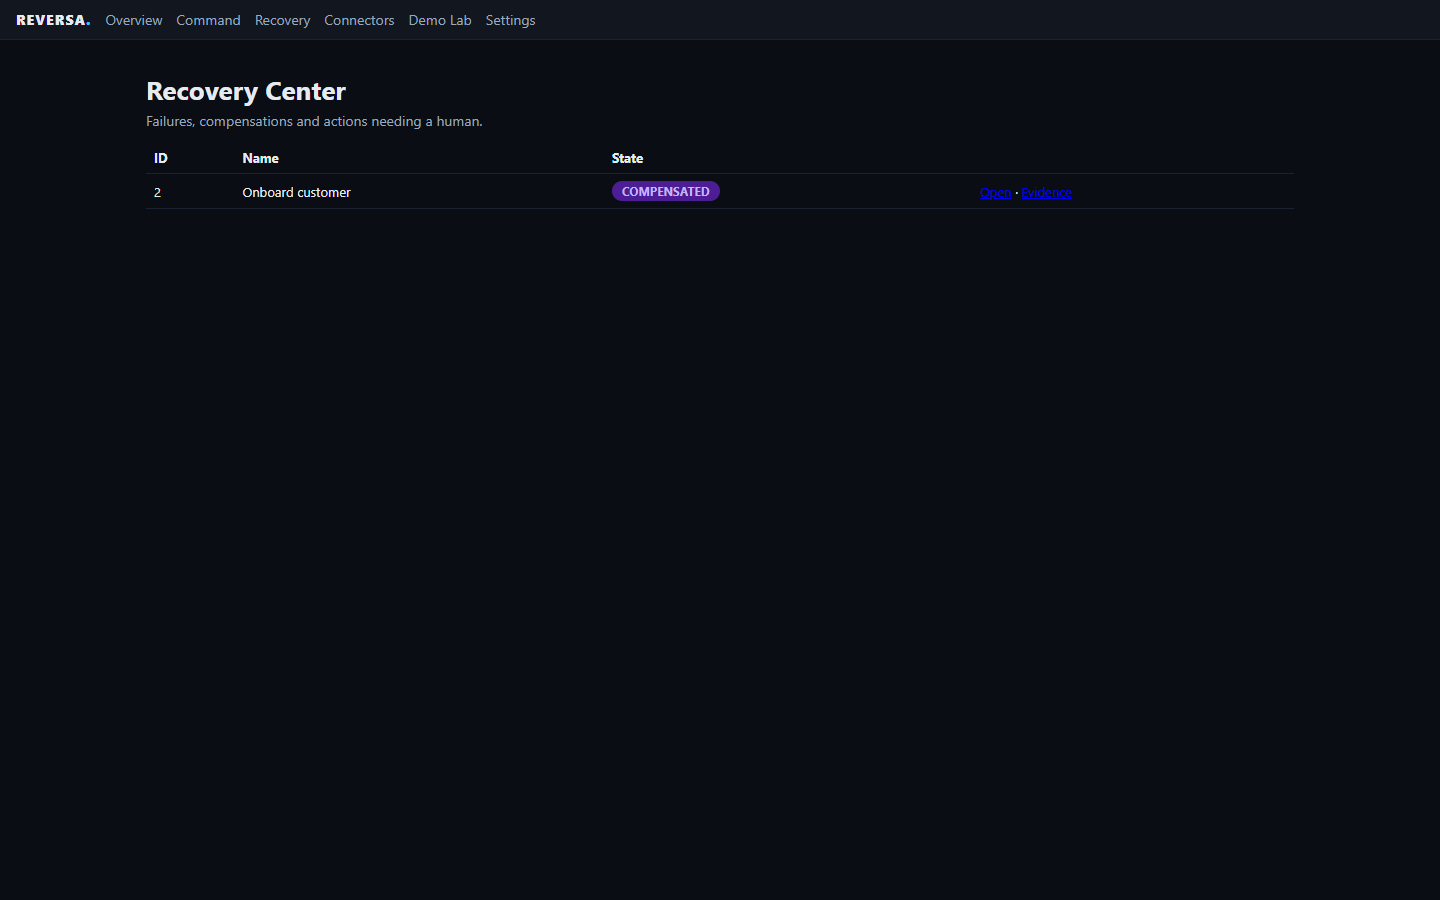
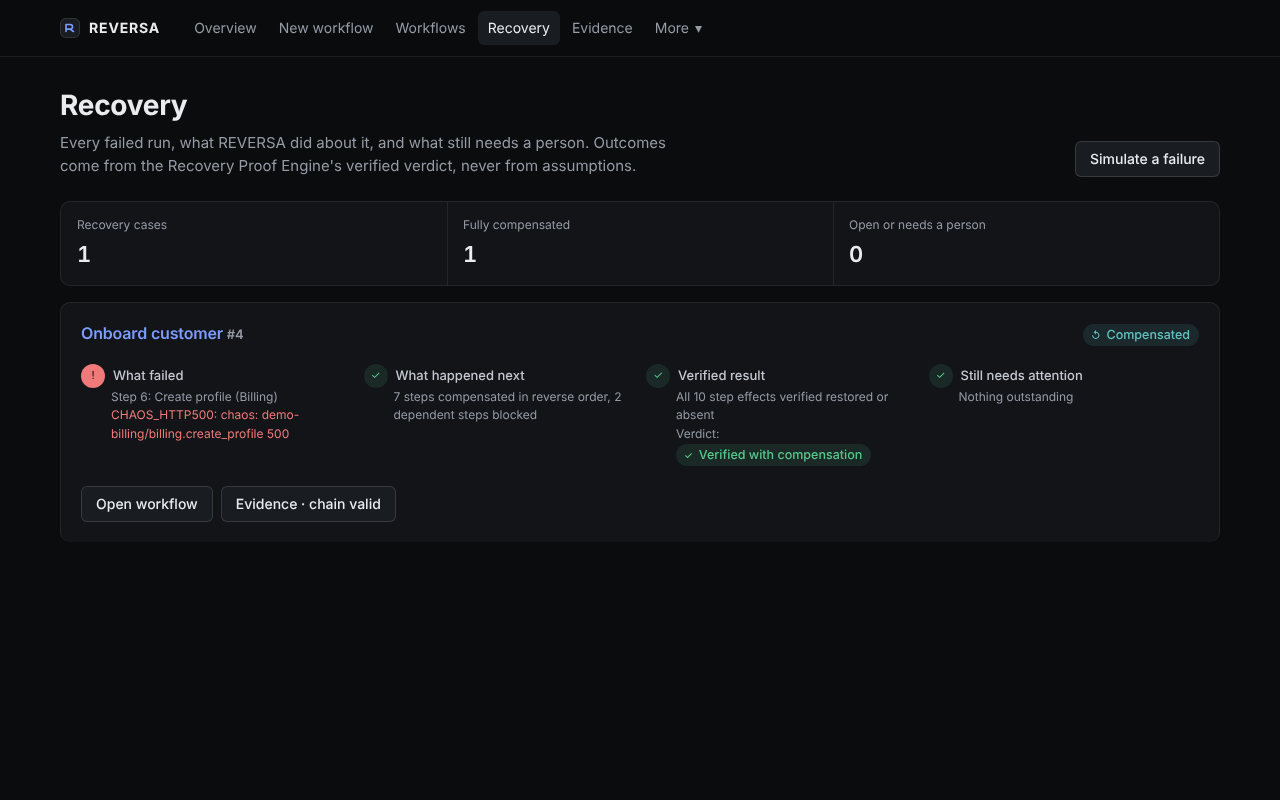
docs(jury): V12 interface in README, START-HERE, demo script, LabLab texts; regenerate gallery

diff --git a/README.md b/README.md
@@ -19,14 +19,25 @@ a verifiable Evidence Passport.
 1. **Command** — keep the Acme onboarding intent, generate the plan.
 2. **Shadow Preview** — effects, risks, approvals. Approve.
 3. **Execute** — 10 real actions across CRM, Identity, Support, Billing, Notify.
-4. **Demo Lab** — INJECT FAILURE: billing dies, REVERSA detects, blocks
+4. **Demo Lab** — Simulate a failure: billing dies, REVERSA detects, blocks
    dependents, compensates in reverse order, reports.
 5. **Evidence** — hash-chained timeline, JSON/HTML export, offline CLI verify.
 
-![Command Center](docs/jury/gallery/command-done.png)
+![Overview](docs/jury/gallery/overview.png)
+![New workflow](docs/jury/gallery/command-done.png)
 ![Live execution graph](docs/jury/gallery/workflow.png)
 ![Chaos recovery](docs/jury/gallery/chaos.png)
 ![Evidence Passport](docs/jury/gallery/evidence.png)
+
+## Interface (V12)
+
+The console was redesigned in V12 (frontend only, no API change): five primary
+sections (Overview, New workflow, Workflows, Recovery, Evidence) plus a More menu
+(Demo Lab, Time Machine, Execution Comparison, Connectors, Value calculator,
+Settings); human-readable statuses with a glyph and the canonical engine state on
+hover; a dependency-stage view of each workflow; recovery cases driven only by the
+Recovery Proof Engine verdict; and an Evidence Passport page with copyable
+basic/strict verify commands. axe-core WCAG 2.2 AA: 0 violations on 12 routes.
 
 ## Architecture
 
@@ -96,7 +107,7 @@ immutability alone. Demo systems are labeled as such.
 
 - [Jury dossier](docs/jury/) — overview, compliance, architecture, proofs,
   AI, security, benchmarks, business case, demo script, verification.
-- [Demo videos](docs/jury/) — `demo-v2.mp4`, 85 s narrated from real captures
+- [Demo videos](docs/jury/) — `demo-v3.mp4` (50 s, EN narration, recorded on the pre-V12 UI); `demo-v2.mp4`, 85 s narrated from real captures
   (6 scene clips + SRT; assembled per `v2-clips/shot-log.md`); V1 66 s
   (`demo.mp4`, built by `build_video.py`) kept as fallback.
 - [LabLab texts](docs/jury/lablab-submission.md) · [Slides](docs/jury/slides.md)

diff --git a/docs/jury/09-demo-script.md b/docs/jury/09-demo-script.md
@@ -1,6 +1,6 @@
 # 09 — Demo script (3 minutes, all live)
 
-Zero token needed to start: Overview → **Launch Interactive Demo**. It mints
+Zero token needed to start: Overview → **Start demo**. It mints
 a short-lived guest session by itself (`POST /api/v1/demo/guest-sessions/public`,
 no credential; 60 min TTL, fixed 2-workflow/2-execute quotas, each session in
 its own ephemeral demo org) and runs the Acme onboarding end to end as that
@@ -12,12 +12,12 @@ matrix stays owner-only.
 
 1. **(0:00) Hook:** "AI agents do real work now. Who cleans up when step 6
    of 10 fails?" Show a half-onboarded customer across systems.
-2. **(0:25) Plan:** Command Center → Generate plan for Acme → Shadow Preview:
+2. **(0:25) Plan:** New workflow → Generate plan for Acme → declared effects (shadow preview):
    effects per system, billing approval flagged, notify.send_summary marked
    irreversible. Approve.
 3. **(0:55) Live execution:** Execute → watch graph + SSE timeline go green;
-   open Connector Hub: real rows in 5 isolated states.
-4. **(1:30) Chaos:** Demo Lab → INJECT FAILURE + RUN. Billing 500s. Watch
+   open Connectors (More menu): real rows in 5 isolated states.
+4. **(1:30) Chaos:** Demo Lab → Simulate a failure. Billing 500s. Watch
    detection, dependent blocking, reverse-order compensation.
 5. **(2:10) Self-healing proof:** resources view: workspace gone, users
    archived; workflow COMPENSATED; incident report complete.

diff --git a/docs/jury/START-HERE.md b/docs/jury/START-HERE.md
@@ -12,17 +12,17 @@ requires an engineer at 2 AM: it restores what it can, refuses to touch
 what it cannot verify, and proves the final state.
 
 **Live:** https://217.69.7.155.nip.io — zero token needed. Overview →
-Launch Interactive Demo mints its own guest session (60-min TTL, fixed
+Start demo mints its own guest session (60-min TTL, fixed
 2-workflow/2-execute quotas, own ephemeral demo org).
 
 ## 1. The Recovery Moment (click steps, ~90 s)
 
-1. Command Center → keep the Acme onboarding intent → Generate plan →
-   Shadow Preview (effects per system, billing approval flagged,
+1. New workflow → keep the Acme onboarding intent → Generate plan →
+   review the declared effects (shadow preview) (effects per system, billing approval flagged,
    `notify.send_summary` IRREVERSIBLE) → Approve.
-2. Execute → watch graph + SSE timeline go green; Connector Hub shows
+2. Execute → watch graph + SSE timeline go green; Connectors (More menu) shows
    rows in 5 isolated **demo** states (SQLite demo stores, labeled).
-3. Demo Lab → INJECT FAILURE (billing http500) + RUN as guest
+3. Demo Lab (More menu) → Simulate a failure (billing http500) as guest
    (org-scoped, cap 50/org, swept at expiry). Watch detection →
    dependent blocking → reverse-order compensation (6 true undos +
    1 read-only noop in the reference run).

diff --git a/docs/jury/lablab-submission.md b/docs/jury/lablab-submission.md
@@ -31,9 +31,9 @@ verified preconditions, and files the incident report. Everything is
 journaled in a hash-chained Evidence Passport you can export and verify
 offline.
 
-On the live demo, one click launches Jury Mode with zero token —
+On the live demo, one click (Start demo) launches the guided demo with zero token —
 it mints its own guest session, then runs plan, approval and 10 verified
-steps across 5 systems. Then hit INJECT FAILURE yourself (guests inject
+steps across 5 systems. Then hit Simulate a failure yourself (guests inject
 org-scoped chaos, capped and auto-cleaned): billing goes down, and you
 watch detection, compensation and restoration happen for real —
 resources before, during and after.
@@ -46,7 +46,7 @@ rejected (422) and never executed, and the deterministic baseline remains
 the default with explicit fallback. Ambiguous intents get structured
 clarification, off-scope ones an explicit refusal — never a silent
 wrong template. Evals ship in-repo: 100 offline cases plus live Vultr
-campaigns (2×10 + 12-case A/B, 65,553 tokens). Release 0.2.0-rc.9 ships
+campaigns (2×10 + 12-case A/B, 65,553 tokens). Release 0.2.0-rc.10 ships
 a 792-test API suite (2 honest skips), 20/20 chaos scenarios, per-run
 recovery manifests — every claim re-runnable from the repo.
 

diff --git a/CHANGELOG.md b/CHANGELOG.md
@@ -10,6 +10,20 @@ Skips in all releases are the same two honest conditional skips
 (Vultr live-provider eval, GitHub live cycle); no Vultr/GitHub secrets
 were present in the environment when the counts were observed.
 
+
+## V12 — product redesign (frontend only)
+
+- New design system (graphite surfaces, one accent, status = glyph + label).
+- Navigation reduced to Overview, New workflow, Workflows, Recovery, Evidence + More.
+- Overview hero + guided demo ("Start demo"); Recovery cards from the Proof Engine
+  verdict; Evidence Passport with copyable basic/strict verify commands.
+- Evidence HTML report is downloaded instead of written into a same-origin window.
+- Demo Lab primary action renamed "Simulate a failure" (E2E smoke updated).
+- Value calculator separates assumptions, projections and measured benchmark.
+- Verified: tsc, next build, 792 API tests + 2 skips, E2E smoke 9/9, axe WCAG 2.2 AA
+  0 violations on 12 routes; deployed and re-verified on the public URL.
+- Gallery regenerated from the V12 build (`docs/jury/gallery/`, + overview.png).
+
 ## RC10 — SSE slot-leak fix + shared-view approvals omission (0.2.0-rc.10)
 
 - Commit: `da73559`, 2026-11-06 (joint API+web bump; tag `v0.2.0-rc.10`

diff --git a/docs/jury/final-pitch.md b/docs/jury/final-pitch.md
@@ -20,7 +20,7 @@ is irreversible, flagged before anything runs. I approve."
 every effect verified, not assumed. Fifty-nine hash-chained events. This
 run is workflow ninety — COMPLETED."
 
-"Now you break it. Hit INJECT FAILURE — billing dies with ten HTTP 500s.
+"Now you break it. Hit Simulate a failure — billing dies with ten HTTP 500s.
 Watch: detection, dependent blocking, reverse-order compensation. Each
 action undone in reverse, verified absent — workspace deleted, users
 archived. Workflow ninety-one: COMPENSATED. Eighty-one events. Recovery
